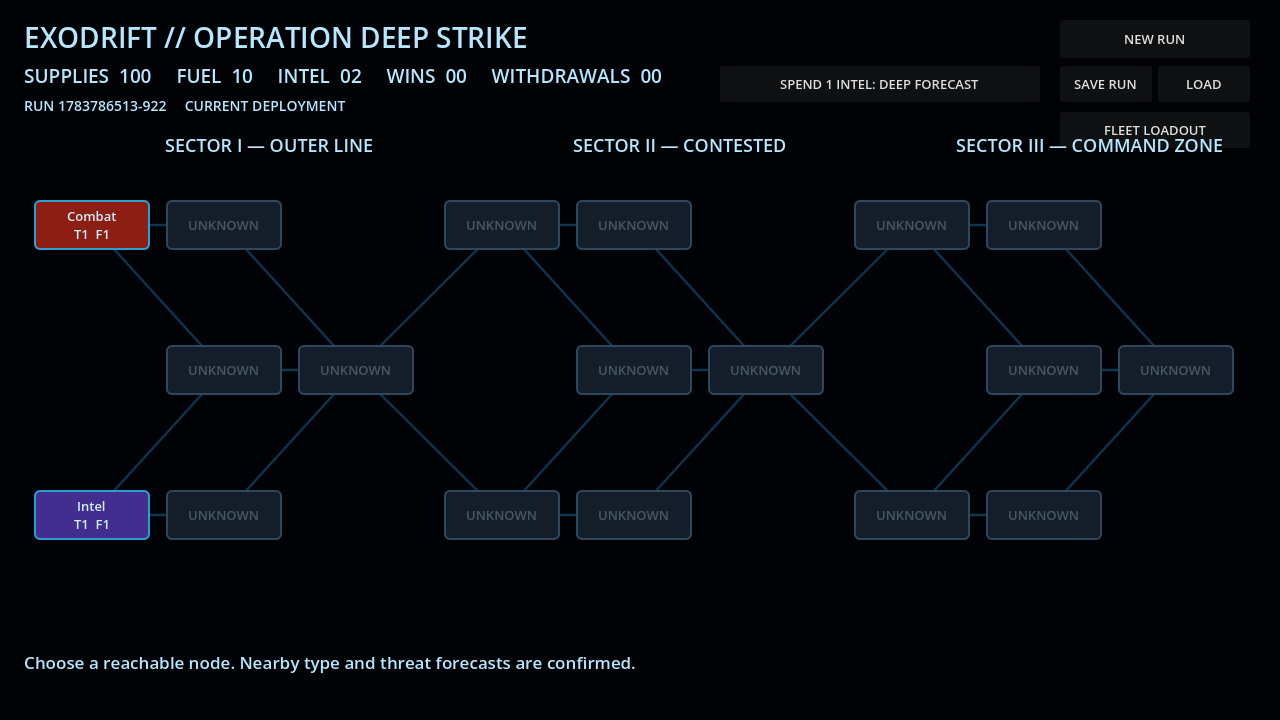
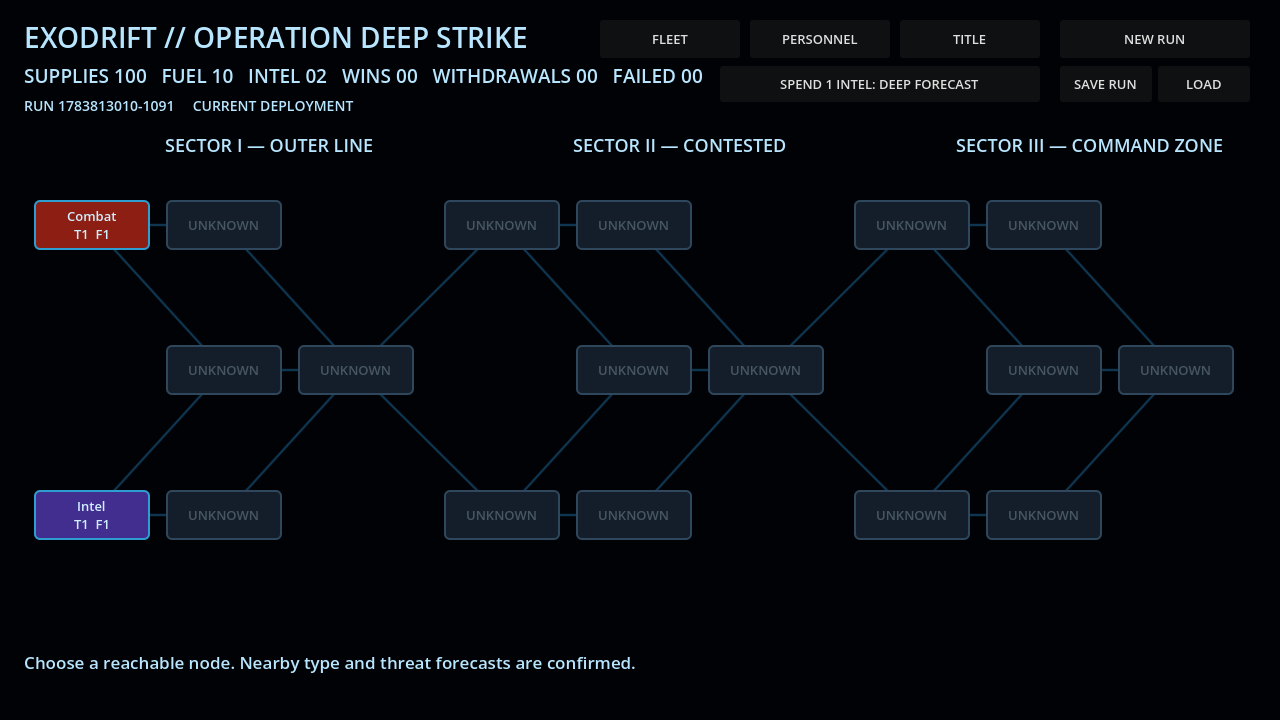
Publish EXODRIFT personnel command milestone

diff --git a/exodrift/index.html b/exodrift/index.html
@@ -24,6 +24,7 @@
     <nav aria-label="Primary navigation">
       <a href="#overview">Overview</a>
       <a href="#fleet">Fleet Archive</a>
+      <a href="#personnel">Personnel</a>
       <a href="#footage">Combat Feed</a>
       <a href="#roadmap">Roadmap</a>
       <a href="#other-games">Other Games</a>
@@ -75,7 +76,7 @@
         <article class="pillar reveal">
           <div class="pillar-number">01</div>
           <h3>Fly the flagship</h3>
-          <p>Command a 120-meter carrier with heavy inertia, braking assist, flak, strike missiles, automated defenses, and layered shields, armor, and hull.</p>
+          <p>Command a 120-meter carrier with heavy inertia, braking assist, camera orbit, bounded vertical battlespace, flak, strike missiles, automated defenses, and layered durability.</p>
         </article>
         <article class="pillar reveal">
           <div class="pillar-number">02</div>
@@ -155,6 +156,26 @@
       </div>
     </section>
 
+    <section class="personnel-showcase section" id="personnel">
+      <div class="personnel-copy reveal">
+        <p class="eyebrow"><span></span> The human cost of command</p>
+        <h2>The fleet remembers <em>who made it home.</em></h2>
+        <p>Twelve authored officers serve across Command, Flight, Gunnery, Engineering, Sensors, and Medical. Choose department leads for tactical advantages, then live with injuries, broken bonds, rescue decisions, succession, and permanent death.</p>
+        <div class="department-grid">
+          <span>COMMAND<small>Command range</small></span>
+          <span>FLIGHT<small>Wing turnaround</small></span>
+          <span>GUNNERY<small>Weapon damage</small></span>
+          <span>ENGINEERING<small>Carrier hull</small></span>
+          <span>SENSORS<small>Detection range</small></span>
+          <span>MEDICAL<small>Rescue injuries</small></span>
+        </div>
+      </div>
+      <figure class="personnel-image reveal">
+        <img src="assets/personnel-preview.png" alt="Personnel Command screen showing six officer departments and their assignment effects">
+        <figcaption>LIVE BUILD // PERSONNEL COMMAND</figcaption>
+      </figure>
+    </section>
+
     <section class="footage section" id="footage">
       <div class="section-heading compact reveal">
         <p class="eyebrow"><span></span> Unfiltered combat feed</p>
@@ -193,7 +214,8 @@
         <div class="timeline-item complete reveal"><span>04</span><div><b>OBJECTIVE FOUNDATION</b><h3>Interception & withdrawal</h3><p>Command strikes, interception battles, extraction corridors, emergency withdrawal, and reduced-reward partial victories.</p></div></div>
         <div class="timeline-item complete reveal"><span>05</span><div><b>MISSION CONSEQUENCES</b><h3>No one gets left behind for free</h3><p>Defense, escort, capture, pursuit, escape pods, jump stragglers, after-action rescue, salvage, and persistent losses.</p></div></div>
         <div class="timeline-item complete reveal"><span>06</span><div><b>PRESENTATION SHELL</b><h3>Command begins at the title screen</h3><p>A centered command menu over a continuously simulated carrier battle, with Continue, settings, credits, and campaign transitions.</p></div></div>
-        <div class="timeline-item current reveal"><span>07</span><div><b>NEXT IN DEVELOPMENT</b><h3>Personnel & departments</h3><p>Named officers, skills, traits, injuries, assignments, rescue outcomes, and permanent operational consequences.</p></div></div>
+        <div class="timeline-item complete reveal"><span>07</span><div><b>PERSONNEL COMMAND</b><h3>The names behind the fleet</h3><p>Twelve officers, six departments, tactical assignments, injuries, bonds, rescue outcomes, succession, and permanent death.</p></div></div>
+        <div class="timeline-item current reveal"><span>08</span><div><b>NEXT IN DEVELOPMENT</b><h3>Operational lives</h3><p>Treatment, promotions, relationship events, radio barks, recruitment pools, and rare authored officer unlocks.</p></div></div>
       </div>
     </section>
 

diff --git a/index.html b/index.html
@@ -24,6 +24,7 @@
     <nav aria-label="Primary navigation">
       <a href="#overview">Overview</a>
       <a href="#fleet">Fleet Archive</a>
+      <a href="#personnel">Personnel</a>
       <a href="#footage">Combat Feed</a>
       <a href="#roadmap">Roadmap</a>
       <a href="#other-games">Other Games</a>
@@ -75,7 +76,7 @@
         <article class="pillar reveal">
           <div class="pillar-number">01</div>
           <h3>Fly the flagship</h3>
-          <p>Command a 120-meter carrier with heavy inertia, braking assist, flak, strike missiles, automated defenses, and layered shields, armor, and hull.</p>
+          <p>Command a 120-meter carrier with heavy inertia, braking assist, camera orbit, bounded vertical battlespace, flak, strike missiles, automated defenses, and layered durability.</p>
         </article>
         <article class="pillar reveal">
           <div class="pillar-number">02</div>
@@ -155,6 +156,26 @@
       </div>
     </section>
 
+    <section class="personnel-showcase section" id="personnel">
+      <div class="personnel-copy reveal">
+        <p class="eyebrow"><span></span> The human cost of command</p>
+        <h2>The fleet remembers <em>who made it home.</em></h2>
+        <p>Twelve authored officers serve across Command, Flight, Gunnery, Engineering, Sensors, and Medical. Choose department leads for tactical advantages, then live with injuries, broken bonds, rescue decisions, succession, and permanent death.</p>
+        <div class="department-grid">
+          <span>COMMAND<small>Command range</small></span>
+          <span>FLIGHT<small>Wing turnaround</small></span>
+          <span>GUNNERY<small>Weapon damage</small></span>
+          <span>ENGINEERING<small>Carrier hull</small></span>
+          <span>SENSORS<small>Detection range</small></span>
+          <span>MEDICAL<small>Rescue injuries</small></span>
+        </div>
+      </div>
+      <figure class="personnel-image reveal">
+        <img src="assets/personnel-preview.png" alt="Personnel Command screen showing six officer departments and their assignment effects">
+        <figcaption>LIVE BUILD // PERSONNEL COMMAND</figcaption>
+      </figure>
+    </section>
+
     <section class="footage section" id="footage">
       <div class="section-heading compact reveal">
         <p class="eyebrow"><span></span> Unfiltered combat feed</p>
@@ -193,7 +214,8 @@
         <div class="timeline-item complete reveal"><span>04</span><div><b>OBJECTIVE FOUNDATION</b><h3>Interception & withdrawal</h3><p>Command strikes, interception battles, extraction corridors, emergency withdrawal, and reduced-reward partial victories.</p></div></div>
         <div class="timeline-item complete reveal"><span>05</span><div><b>MISSION CONSEQUENCES</b><h3>No one gets left behind for free</h3><p>Defense, escort, capture, pursuit, escape pods, jump stragglers, after-action rescue, salvage, and persistent losses.</p></div></div>
         <div class="timeline-item complete reveal"><span>06</span><div><b>PRESENTATION SHELL</b><h3>Command begins at the title screen</h3><p>A centered command menu over a continuously simulated carrier battle, with Continue, settings, credits, and campaign transitions.</p></div></div>
-        <div class="timeline-item current reveal"><span>07</span><div><b>NEXT IN DEVELOPMENT</b><h3>Personnel & departments</h3><p>Named officers, skills, traits, injuries, assignments, rescue outcomes, and permanent operational consequences.</p></div></div>
+        <div class="timeline-item complete reveal"><span>07</span><div><b>PERSONNEL COMMAND</b><h3>The names behind the fleet</h3><p>Twelve officers, six departments, tactical assignments, injuries, bonds, rescue outcomes, succession, and permanent death.</p></div></div>
+        <div class="timeline-item current reveal"><span>08</span><div><b>NEXT IN DEVELOPMENT</b><h3>Operational lives</h3><p>Treatment, promotions, relationship events, radio barks, recruitment pools, and rare authored officer unlocks.</p></div></div>
       </div>
     </section>
 

diff --git a/exodrift/styles.css b/exodrift/styles.css
@@ -124,6 +124,15 @@ nav a:hover { color: var(--blue); }
 .traits { display:flex; flex-wrap:wrap; gap:6px; position:relative; z-index:2; }
 .traits span { border:1px solid var(--line); color:#9cc2d4; font-size:8px; padding:6px 8px; letter-spacing:.12em; }
 
+.personnel-showcase { display:grid; grid-template-columns:.8fr 1.2fr; gap:5vw; align-items:center; background:radial-gradient(circle at 12% 45%,rgba(53,200,255,.1),transparent 34%),#03080d; }
+.personnel-copy > p:not(.eyebrow) { color:var(--muted); line-height:1.75; max-width:620px; }
+.department-grid { display:grid; grid-template-columns:1fr 1fr; gap:8px; margin-top:28px; }
+.department-grid span { border:1px solid var(--line); background:rgba(7,20,30,.84); padding:13px 15px; color:var(--cyan); font-size:10px; font-weight:900; letter-spacing:.12em; }
+.department-grid small { display:block; color:var(--muted); font-size:9px; font-weight:600; letter-spacing:.04em; margin-top:5px; text-transform:none; }
+.personnel-image { margin:0; position:relative; border:1px solid var(--line); box-shadow:0 22px 70px rgba(0,0,0,.48); }
+.personnel-image img { display:block; width:100%; height:auto; }
+.personnel-image figcaption { position:absolute; right:14px; bottom:12px; padding:7px 10px; background:rgba(2,8,13,.88); color:var(--cyan); font-size:8px; letter-spacing:.16em; }
+
 .footage { background:#050b10; }
 .gallery { display:grid; grid-template-columns:repeat(3,1fr); grid-template-rows:auto; gap:14px; }
 .gallery figure { margin:0; position:relative; overflow:hidden; min-height:280px; background:#08131c; border:1px solid var(--line); }
@@ -175,6 +184,7 @@ footer { display:flex; align-items:center; gap:30px; justify-content:space-betwe
   .hero { grid-template-columns:1fr; }
   .hero-card { display:none; }
   .ship-carousel { grid-template-columns:repeat(2,1fr); }
+  .personnel-showcase { grid-template-columns:1fr; }
   .gallery { grid-template-columns:1fr; grid-template-rows:auto; }
   .gallery figure.gallery-main { grid-column:auto; grid-row:auto; min-height:430px; }
   .gallery figure { min-height:360px; }
@@ -189,7 +199,7 @@ footer { display:flex; align-items:center; gap:30px; justify-content:space-betwe
   .signal-strip div { padding:12px; }
   .signal-strip div:nth-child(2) { border-right:0; }
   .section { padding:85px 22px; }
-  .pillar-grid,.ship-carousel { grid-template-columns:1fr; }
+  .pillar-grid,.ship-carousel,.department-grid { grid-template-columns:1fr; }
   .ship-card { min-height:480px; }
   .fleet-tabs { overflow-x:auto; }
   .gallery figure,.gallery figure.gallery-main { min-height:280px; }

diff --git a/styles.css b/styles.css
@@ -124,6 +124,15 @@ nav a:hover { color: var(--blue); }
 .traits { display:flex; flex-wrap:wrap; gap:6px; position:relative; z-index:2; }
 .traits span { border:1px solid var(--line); color:#9cc2d4; font-size:8px; padding:6px 8px; letter-spacing:.12em; }
 
+.personnel-showcase { display:grid; grid-template-columns:.8fr 1.2fr; gap:5vw; align-items:center; background:radial-gradient(circle at 12% 45%,rgba(53,200,255,.1),transparent 34%),#03080d; }
+.personnel-copy > p:not(.eyebrow) { color:var(--muted); line-height:1.75; max-width:620px; }
+.department-grid { display:grid; grid-template-columns:1fr 1fr; gap:8px; margin-top:28px; }
+.department-grid span { border:1px solid var(--line); background:rgba(7,20,30,.84); padding:13px 15px; color:var(--cyan); font-size:10px; font-weight:900; letter-spacing:.12em; }
+.department-grid small { display:block; color:var(--muted); font-size:9px; font-weight:600; letter-spacing:.04em; margin-top:5px; text-transform:none; }
+.personnel-image { margin:0; position:relative; border:1px solid var(--line); box-shadow:0 22px 70px rgba(0,0,0,.48); }
+.personnel-image img { display:block; width:100%; height:auto; }
+.personnel-image figcaption { position:absolute; right:14px; bottom:12px; padding:7px 10px; background:rgba(2,8,13,.88); color:var(--cyan); font-size:8px; letter-spacing:.16em; }
+
 .footage { background:#050b10; }
 .gallery { display:grid; grid-template-columns:repeat(3,1fr); grid-template-rows:auto; gap:14px; }
 .gallery figure { margin:0; position:relative; overflow:hidden; min-height:280px; background:#08131c; border:1px solid var(--line); }
@@ -175,6 +184,7 @@ footer { display:flex; align-items:center; gap:30px; justify-content:space-betwe
   .hero { grid-template-columns:1fr; }
   .hero-card { display:none; }
   .ship-carousel { grid-template-columns:repeat(2,1fr); }
+  .personnel-showcase { grid-template-columns:1fr; }
   .gallery { grid-template-columns:1fr; grid-template-rows:auto; }
   .gallery figure.gallery-main { grid-column:auto; grid-row:auto; min-height:430px; }
   .gallery figure { min-height:360px; }
@@ -189,7 +199,7 @@ footer { display:flex; align-items:center; gap:30px; justify-content:space-betwe
   .signal-strip div { padding:12px; }
   .signal-strip div:nth-child(2) { border-right:0; }
   .section { padding:85px 22px; }
-  .pillar-grid,.ship-carousel { grid-template-columns:1fr; }
+  .pillar-grid,.ship-carousel,.department-grid { grid-template-columns:1fr; }
   .ship-card { min-height:480px; }
   .fleet-tabs { overflow-x:auto; }
   .gallery figure,.gallery figure.gallery-main { min-height:280px; }

diff --git a/exodrift/play/index.html b/exodrift/play/index.html
@@ -111,7 +111,7 @@ body {
 
 		<script src="index.js"></script>
 		<script>
-const GODOT_CONFIG = {"args":[],"canvasResizePolicy":2,"emscriptenPoolSize":8,"ensureCrossOriginIsolationHeaders":true,"executable":"index","experimentalVK":false,"fileSizes":{"index.pck":161868,"index.wasm":39509339},"focusCanvas":true,"gdextensionLibs":[],"godotPoolSize":4};
+const GODOT_CONFIG = {"args":[],"canvasResizePolicy":2,"emscriptenPoolSize":8,"ensureCrossOriginIsolationHeaders":true,"executable":"index","experimentalVK":false,"fileSizes":{"index.pck":180672,"index.wasm":39509339},"focusCanvas":true,"gdextensionLibs":[],"godotPoolSize":4};
 const GODOT_THREADS_ENABLED = false;
 const engine = new Engine(GODOT_CONFIG);
 